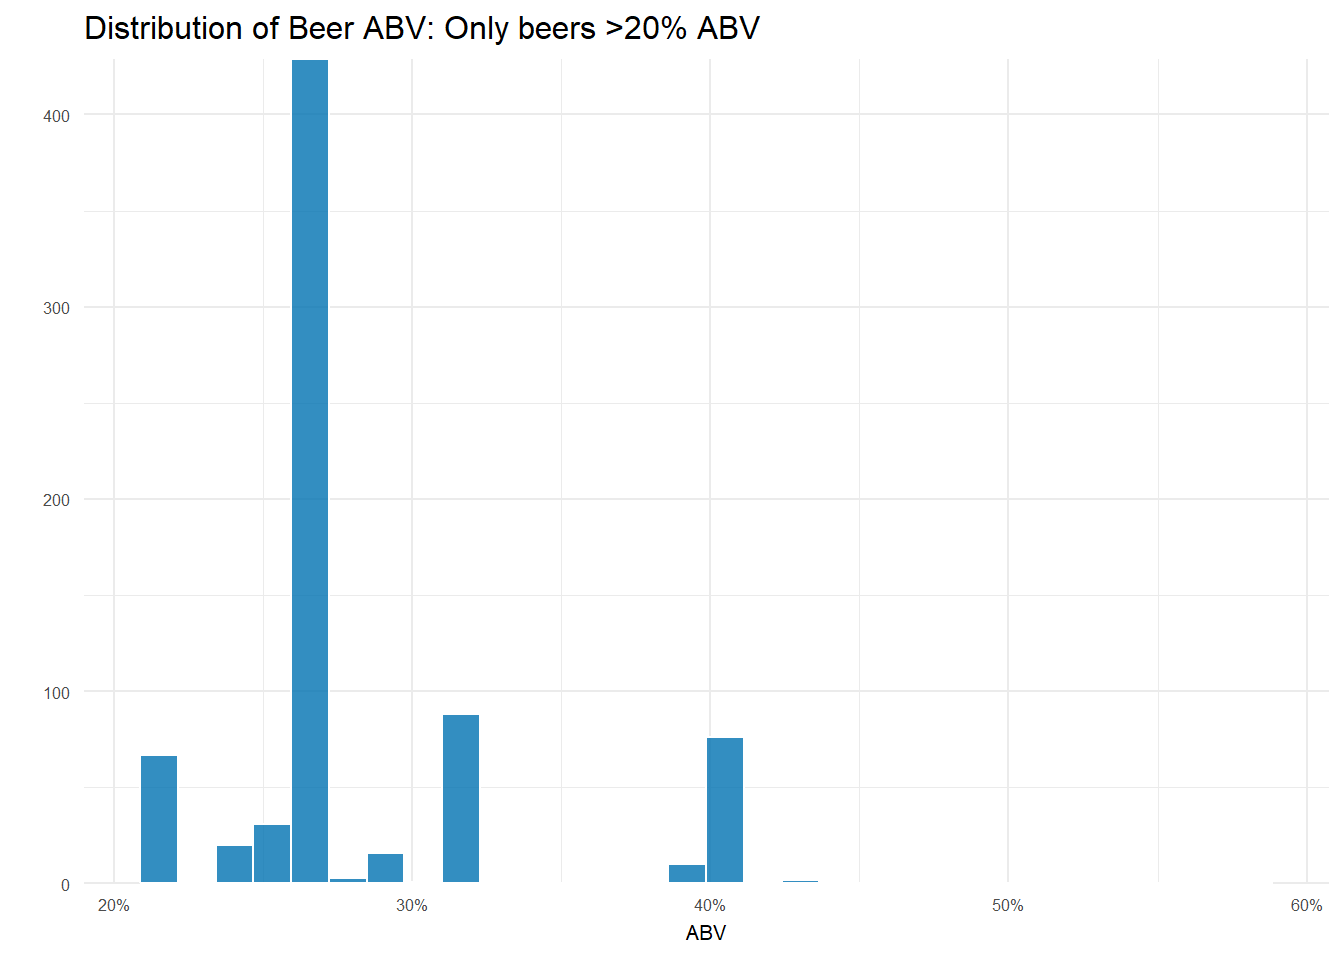
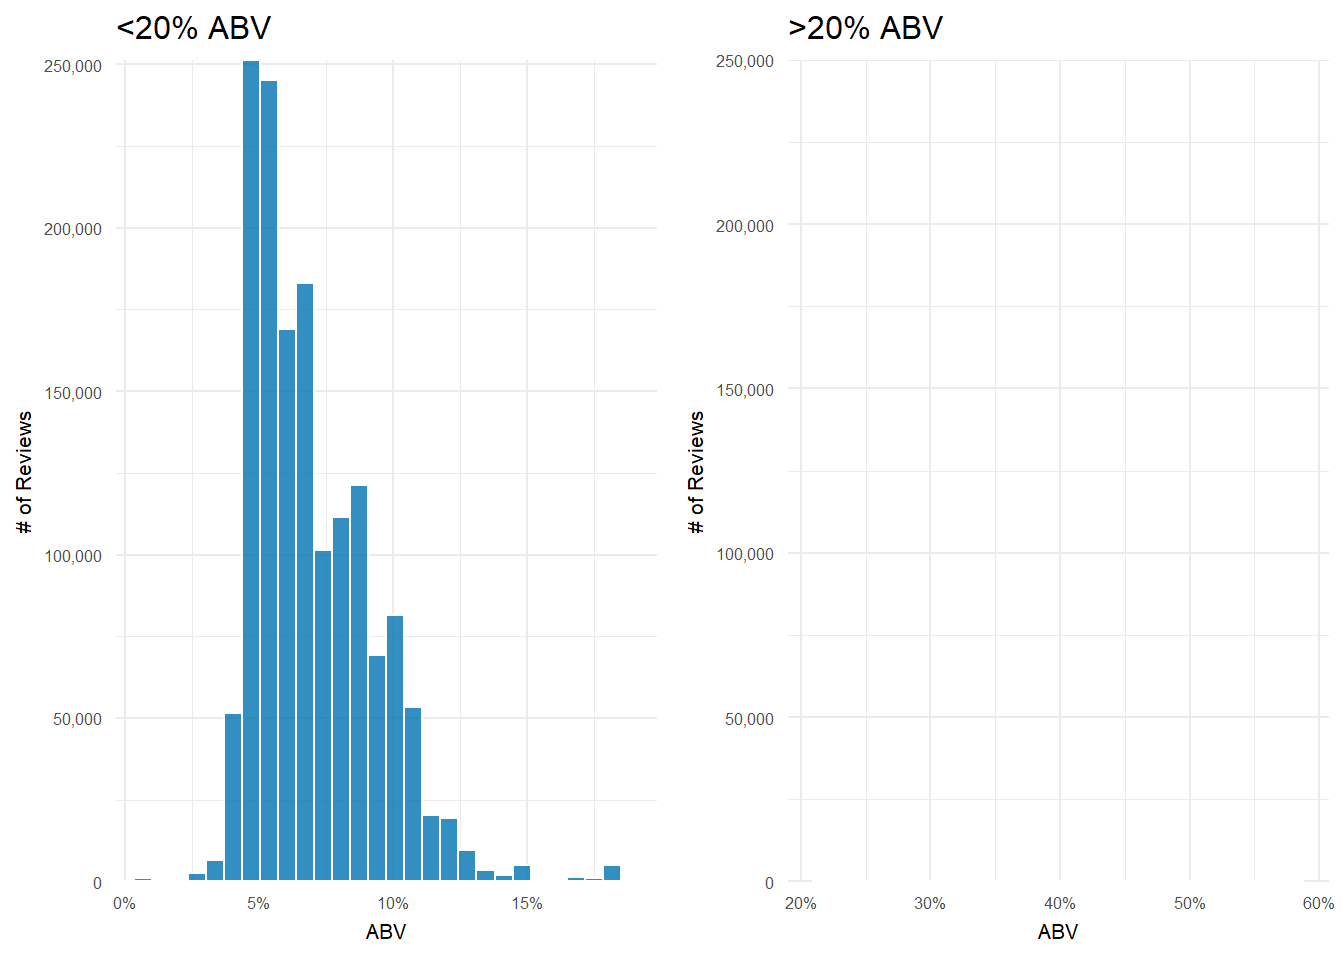
-Combined more plots for better readability

diff --git a/content/post/beer-advocate-reviews.html b/content/post/beer-advocate-reviews.html
@@ -646,14 +646,14 @@ top_bottom_conf_int_by_reviewid%&gt;%
        title = &quot;Top 15 &amp; Bottom 15 Styles: Beers not filtered&quot;,
        subtitle = &quot;Estimated Review Score of Beer Styles with 95% Confidence Intervals&quot;)+
   my_theme_tweaks()</code></pre>
-<p><img src="/post/beer-advocate-reviews_files/figure-html/non-filtered-styles-conf-ints-1.png" width="90%" height="90%" style="display: block; margin: auto;" /> The results are pretty similar to the other approach with some small differences. First, the confidence intervals are narrower for all styles. This is expected because of how I did the grouping. Instead of having, say, 100 beers to base the estimates off of, these styles may use thousands of reviews–remember all those one review beers we filtered out before? With all that additional data, the confidence intervals <em>should</em> get narrower. Second, we see a handful of new styles present in the top and bottom styles. Lambic - Unblended and Gose didn’t make the cut before, but are present now. These new additions to the to and bottom styles have the wider confidence intervals because they are basing the estimates of less data.</p>
+<p><img src="/post/beer-advocate-reviews_files/figure-html/non-filtered-styles-conf-ints-1.png" width="90%" height="90%" style="display: block; margin: auto;" /> The results are pretty similar to the other approach with some small differences. First, the confidence intervals are narrower for all styles. This is expected because of how I did the grouping. Instead of having, say, 100 beers to base the estimates off of, these styles may use thousands of reviews–remember all those one review beers we filtered out before? With all that additional data, the confidence intervals <em>should</em> get narrower. Second, we see a handful of new styles present in the top and bottom styles. Lambic - Unblended and Gose didn’t make the cut before, but are present now. These new additions to the top and bottom styles have the wider confidence intervals because they are basing the estimates of less data.</p>
 <p>Essentially though, the information present is the same. Reviewers love stouts, belgian ales, sours and IPAs and they tend to dislike lagers and light beers.</p>
 </div>
 </div>
 </div>
 <div id="which-brewery-produces-the-strongest-beers-by-abv" class="section level2">
 <h2>Which brewery produces the strongest beers by ABV%?</h2>
-With a better handle on the dataset, now I can actually address the question! First things first, there are 67,785 reviews with no ABV data so we need to remove that data. It’s only 4.27% of all reviews, so for the time being I’m not going to worry about just removing those reviews. Now the question is–what <em>is</em> a strong beer anyway? You can see from the histogram of the distribution of ABV’s that the vast majority of beers are under 10% ABV. Only 18 beers out of over 66,000! are over 20% ABV. <img src="/post/beer-advocate-reviews_files/figure-html/beer-abv-exploration-1.png" width="90%" height="90%" style="display: block; margin: auto;" />
+With a better handle on the dataset, now I can actually address the question! First things first, there are 67,785 reviews with no ABV data so I need to remove that data. It’s only 4.27% of all reviews, so for the time being I’m not going to worry about just removing those reviews. Now the question is–what <em>is</em> a strong beer anyway? You can see from the histogram of the distribution of ABV’s that the vast majority of beers are under 10% ABV. <img src="/post/beer-advocate-reviews_files/figure-html/beer-abv-exploration-1.png" width="90%" height="90%" style="display: block; margin: auto;" />
 <table class="table table-condensed">
 <thead>
 <tr>
@@ -742,196 +742,14 @@ De Struise Brouwers
 American Double / Imperial Stout
 </td>
 </tr>
-<tr>
-<td style="text-align:right;">
-Tactical Nuclear Penguin
-</td>
-<td style="text-align:right;">
-32.00
-</td>
-<td style="text-align:right;">
-BrewDog
-</td>
-<td style="text-align:right;">
-American Double / Imperial Stout
-</td>
-</tr>
-<tr>
-<td style="text-align:right;">
-Schorschbräu Schorschbock 31%
-</td>
-<td style="text-align:right;">
-30.86
-</td>
-<td style="text-align:right;">
-Schorschbräu
-</td>
-<td style="text-align:right;">
-Eisbock
-</td>
-</tr>
-<tr>
-<td style="text-align:right;">
-Dave
-</td>
-<td style="text-align:right;">
-29.00
-</td>
-<td style="text-align:right;">
-Hair of the Dog Brewing Company / Brewery and Tasting Room
-</td>
-<td style="text-align:right;">
-English Barleywine
-</td>
-</tr>
-<tr>
-<td style="text-align:right;">
-Ghost Deer
-</td>
-<td style="text-align:right;">
-28.00
-</td>
-<td style="text-align:right;">
-BrewDog
-</td>
-<td style="text-align:right;">
-Belgian Strong Pale Ale
-</td>
-</tr>
-<tr>
-<td style="text-align:right;">
-Samuel Adams Utopias
-</td>
-<td style="text-align:right;">
-27.00
-</td>
-<td style="text-align:right;">
-Boston Beer Company (Samuel Adams)
-</td>
-<td style="text-align:right;">
-American Strong Ale
-</td>
-</tr>
-<tr>
-<td style="text-align:right;">
-Black Damnation V - Double Black
-</td>
-<td style="text-align:right;">
-26.00
-</td>
-<td style="text-align:right;">
-De Struise Brouwers
-</td>
-<td style="text-align:right;">
-American Double / Imperial Stout
-</td>
-</tr>
-<tr>
-<td style="text-align:right;">
-Samuel Adams Utopias MMIII
-</td>
-<td style="text-align:right;">
-25.00
-</td>
-<td style="text-align:right;">
-Boston Beer Company (Samuel Adams)
-</td>
-<td style="text-align:right;">
-American Strong Ale
-</td>
-</tr>
-<tr>
-<td style="text-align:right;">
-Samuel Adams Utopias (Aged On Cocoa Nibs)
-</td>
-<td style="text-align:right;">
-25.00
-</td>
-<td style="text-align:right;">
-Boston Beer Company (Samuel Adams)
-</td>
-<td style="text-align:right;">
-American Strong Ale
-</td>
-</tr>
-<tr>
-<td style="text-align:right;">
-Samuel Adams Utopias MMII
-</td>
-<td style="text-align:right;">
-24.00
-</td>
-<td style="text-align:right;">
-Boston Beer Company (Samuel Adams)
-</td>
-<td style="text-align:right;">
-American Strong Ale
-</td>
-</tr>
-<tr>
-<td style="text-align:right;">
-Black Damnation XI - Special Kay
-</td>
-<td style="text-align:right;">
-22.00
-</td>
-<td style="text-align:right;">
-De Struise Brouwers
-</td>
-<td style="text-align:right;">
-Russian Imperial Stout
-</td>
-</tr>
-<tr>
-<td style="text-align:right;">
-44 Magnum
-</td>
-<td style="text-align:right;">
-22.00
-</td>
-<td style="text-align:right;">
-LagerHaus Grill &amp; Brewery
-</td>
-<td style="text-align:right;">
-American Strong Ale
-</td>
-</tr>
-<tr>
-<td style="text-align:right;">
-Colossus
-</td>
-<td style="text-align:right;">
-21.92
-</td>
-<td style="text-align:right;">
-DuClaw Brewing Company
-</td>
-<td style="text-align:right;">
-American Strong Ale
-</td>
-</tr>
-<tr>
-<td style="text-align:right;">
-Samuel Adams Millennium
-</td>
-<td style="text-align:right;">
-21.00
-</td>
-<td style="text-align:right;">
-Boston Beer Company (Samuel Adams)
-</td>
-<td style="text-align:right;">
-American Strong Ale
-</td>
-</tr>
 </tbody>
 </table>
+<p>Only 18 beers out of over 66,000! are over 20% ABV and as an early preview, you can see one brewery name standing out!.</p>
 <p>If I divide the data into reviews of beers &gt; 20% ABV and those &lt; 20% ABV, it’s easier to see how uncommon reviews for really high ABV beers are.</p>
-<p><img src="/post/beer-advocate-reviews_files/figure-html/greater-20-abv-distribution-1.png" width="90%" height="90%" style="display: block; margin: auto;" /></p>
-<p>The vast majority of beers reviewed fall right around the 5-6% range.</p>
-<p><img src="/post/beer-advocate-reviews_files/figure-html/less-20,%20abv%20distribution-1.png" width="90%" height="90%" style="display: block; margin: auto;" /></p>
+<p><img src="/post/beer-advocate-reviews_files/figure-html/abv-distributions-1.png" width="90%" height="90%" style="display: block; margin: auto;" /></p>
+<p>The vast majority of beers reviewed fall right around the 5-6% range. And that’s not an empty plot on the right–there’s simply so few reviews of beers &gt;20% ABV that you can’t see them when I force the plots to have the same y-axis scale.</p>
 <p>The question of which brewery produces the strongest beers by ABV has more nuance than it might appear. First, the question asks which brewery produces the strongest <strong>beers</strong> which I am taking to mean it needs to produce more than one beer. Second, how should I measure how strong a breweries beers are? An average of their ABVs? Maybe take the median? What about looking at the proportion of beers that a brewery produces that are above some ‘strong’ beer threshold? All these methods seem to have merit and are pretty simple and quick to perform. Let’s try them out and see what they tell us.</p>
-<p>After a bit of filtering, grouping and aggregation(which you can see in the code fold below), you can see that Schorschbräu ranks at the top of both the mean and median rankings. In fact, the top 4 on both graphs are the same–albeit with one positional swap. One note: Why did I only include breweries that make 4 or more beers? Because the median number of beers produced is 4 and that seemed reasonable.</p>
+<p>After a bit of filtering, grouping and aggregation(which you can see in the code below), you can see that Schorschbräu ranks at the top of both the mean and median rankings. In fact, the top 4 on both graphs are the same–albeit with one positional swap. One note: Why did I only include breweries that make 4 or more beers? Because the median number of beers produced is 4 and that seemed reasonable.</p>
 <pre class="r"><code>average_abv &lt;- reviews_raw %&gt;%
   # remove reviews with missing abv
   filter(!is.na(beer_abv), !is.na(brewery_name))%&gt;%
@@ -965,7 +783,7 @@ average_abv &lt;- average_abv %&gt;%
            into = c(&quot;brewery_name&quot;, NA))
 
 # create strongest mean beer plot
-average_abv %&gt;%
+p3 &lt;- average_abv %&gt;%
   mutate(brewery_name = fct_reorder(brewery_name, avg_abv))%&gt;%
   # Median number of beers produced is 4 so only keeping those at or above that threshold
   filter(num_beers &gt;= 4)%&gt;%
@@ -975,12 +793,12 @@ average_abv %&gt;%
   scale_x_continuous(labels = scales::number_format(suffix = &quot;%&quot;))+
   labs(x = &quot;ABV&quot;,
        y = &quot;&quot;, 
-       title = &quot;Breweries Producing the &#39;Strongest&#39; Beers: By Mean&quot;,
-       subtitle = &quot;Only Breweries producing 4 or more different beers&quot;)+
-  my_theme_tweaks()</code></pre>
-<p><img src="/post/beer-advocate-reviews_files/figure-html/strongest-beers-by-mean-median-1.png" width="90%" height="90%" style="display: block; margin: auto;" /></p>
-<pre class="r"><code># create strongest median beer plot
-average_abv %&gt;%
+       title = &quot;By Mean&quot;,
+       subtitle = &quot;&quot;)+
+  my_theme_tweaks()
+
+# create strongest median beer plot
+p4 &lt;- average_abv %&gt;%
   distinct(brewery_name, .keep_all = TRUE)%&gt;%
   mutate(brewery_name = fct_reorder(brewery_name, med_abv))%&gt;%
   filter(num_beers &gt;= 4)%&gt;%
@@ -990,10 +808,12 @@ average_abv %&gt;%
   scale_x_continuous(labels = scales::number_format(suffix = &quot;%&quot;))+
   labs(x = &quot;ABV&quot;,
        y = &quot;&quot;, 
-       title = &quot;Breweries Producing the &#39;Strongest&#39; Beers: By Median&quot;,
-       subtitle = &quot;Only Breweries producing 4 or more different beers&quot;)+
-  my_theme_tweaks()</code></pre>
-<p><img src="/post/beer-advocate-reviews_files/figure-html/strongest-beers-by-mean-median-2.png" width="90%" height="90%" style="display: block; margin: auto;" /></p>
+       title = &quot;By Median&quot;,
+       subtitle = &quot;&quot;)+
+  my_theme_tweaks()
+
+ggarrange(p3, p4)</code></pre>
+<p><img src="/post/beer-advocate-reviews_files/figure-html/strongest-beers-by-mean-median-1.png" width="90%" height="90%" style="display: block; margin: auto;" /></p>
 <p>Now what if the brewery that produces the strongest beers is the one that has the highest proportion of its beers above some ABV threshold. We know the mean ABV for a beer is 6.27% (median 5.7%). In fact, the 75th percentile for beer ABV is only 7.2%. 10% is where I, personally, start to think a beer is strong and with only 6.51% of beers having greater than or equal to 10% ABV, I think it’s a pretty reasonable mark of a ‘strong’ beer.</p>
 <p><img src="/post/beer-advocate-reviews_files/figure-html/strongest-beer-by-proportion-above-10-1.png" width="90%" height="90%" style="display: block; margin: auto;" /></p>
 <p>Yet again, Schorschbräu sits at the top. They only make 10 different beers, but 90% of them are 10% ABV or higher! For a brewery that produces quite a few more beers, but still cranks out high ABV stuff, AleSmith Brewing Company is up there. They make over 50 different beers and over 70% of them are above 10% ABV.</p>
@@ -1162,8 +982,9 @@ pred$rating &lt;- r$predict(prediction_set, out_memory())
 saveRDS(pred, &quot;beer_reco_predictions.RDS&quot;)</code></pre>
 <p>The model runs through 20 iterations and the RMSE is still dropping. You can really easily overfit this model. If you do 300 or even 400 latent factors the RMSE will continue to drop. In a full scale implementation, I would be using a training and testing set and/or cross validation to choose the number of latent factors that minimizes the RMSE on the test set. Here, I’m simply doing a proof of concept, so we are playing it a bit fast and loose.</p>
 <p>With the model trained and predictions precomputed for all users, I can select some users and examine the results. I built a couple helper functions to view the results. The first takes the prediction data frame and filters out the beers that user already reviewed then returns the top 3 beers predicted for them. The second function grabs the top 10 beers that that user already reviewed so we can compare and see if the results are sensible.</p>
-<pre class="r"><code>#Look into using &#39;here&#39; package for easier paths here
-predictions &lt;- readRDS(&quot;~/Playground/Playground/beer_reco_predictions.RDS&quot;)
+<pre class="r"><code>#using &#39;here&#39; for easier paths
+predictions &lt;- here::here(&quot;content&quot;, &quot;post&quot;, &quot;beer_reco_predictions.RDS&quot;)%&gt;%
+  readRDS()
 
 top_three_beers_for_user &lt;- function(preds = predictions, user_beer_sparse = user_beer_triplet, user_id = NULL){
 # inputs: 
@@ -1724,7 +1545,7 @@ American Double / Imperial IPA
 </div>
 <div id="which-of-the-factorsaroma-taste-appearance-palette-are-most-important-in-determining-the-overall-quality-of-the-beer" class="section level2">
 <h2>Which of the factors(aroma, taste, appearance, palette) are most important in determining the overall quality of the beer?</h2>
-<p>This is another fun question because–yet again–there are a lot of different ways you could reason about finding an answer. Initially, I wanted to use PCA. I figured I could use it to see which factor most closely corresponded to the first principle component–which is where, by definition, most of the variance occurs. But after thinking it over some more, I decided not to use this approach. Typically PCA is used when you have a lot of variables that are in play. Here, I’m only really looking at 4. While I think you could cast the problem in a way to ‘use’ PCA, I don’t know that it’s the good approach, so I’m using other techniques here. I’d love to see how someone would approach this problem using PCA though, so if you get a hankering to do that, please shoot me a link to your analysis in the comments!</p>
+<p>This is another fun question because–yet again–there are a lot of different ways you could reason about finding an answer. Initially, I wanted to use PCA. I figured I could use it to see which factor most closely corresponded to the first principle component–which is where, by definition, most of the variance occurs. But after thinking it over some more, I decided not to use this approach. Typically PCA is used when you have a lot of variables that are in play. Here, I’m only really looking at 4. While I think you <em>could</em> cast the problem in a way to use PCA, I don’t know that it’s the good approach, so I’m using other techniques here. I’d love to see how someone would approach this problem using PCA though, so if you get a hankering to do that, please shoot me a link to your analysis in the comments!</p>
 <p>Instead of PCA, I’m going to do two things:</p>
 <ol style="list-style-type: decimal">
 <li>Examine the correlations between the subfactors(taste, palette, aroma, appearance) and the overall review scores</li>
@@ -1902,7 +1723,7 @@ summary(m1)</code></pre>
 ## Residual standard error: 0.4213 on 1586602 degrees of freedom
 ## Multiple R-squared:  0.6581, Adjusted R-squared:  0.6581 
 ## F-statistic: 7.636e+05 on 4 and 1586602 DF,  p-value: &lt; 2.2e-16</code></pre>
-<p>This linear model is predicting review_overall from the sub-reviews–taste, aroma, appearance and palate. With an R-squared of just .658, this model isn’t super accurate, but it’s good enough for our purposes.<a href="#fn3" class="footnoteRef" id="fnref3"><sup>3</sup></a> I just want to see which factor is most important to the overall review score after all. It’s tempting to just look at the coefficient values and say whichever is larger is more important, but that’s <a href="https://stats.stackexchange.com/a/202846">not really true</a>. Variables on different scales, variables with wildly different variances or multi-collinearity between variables will all make determining feature importance from the coefficient values problematic(if not outright wrong).</p>
+<p>This linear model is predicting review_overall from the sub-reviews–taste, aroma, appearance and palate. With an R-squared of just .658, this model isn’t super accurate, but it’s good enough for our purposes.<a href="#fn3" class="footnoteRef" id="fnref3"><sup>3</sup></a> I just want to see which factor is most important to the overall review score after all. It’s tempting to look at the coefficient values and say whichever is larger is more important, but that’s <a href="https://stats.stackexchange.com/a/202846">not really true</a>. Variables on different scales, variables with wildly different variances or multi-collinearity between variables will all make determining feature importance from the coefficient values problematic(if not outright wrong).</p>
 <p>Luckily, some very smart statisticians built a package called <a href="https://cran.r-project.org/web/packages/relaimpo/relaimpo.pdf"><strong>relaimpo</strong></a> that will calculate more useful feature importance metrics. It turns out this is a really slippery and complicated area of statistics, so I’d encourage you to read about it <a href="https://prof.beuth-hochschule.de/fileadmin/prof/groemp/downloads/amstat07mayp139.pdf">here</a> if you’d like to see how a statistician thinks about this area. There are 8 different metrics you can use in <em>relaimpo</em>, but they all basically give the same answer. I’ve included 5 below(<em>lmg</em> and <em>betasq</em> seem to be the most commonly used metrics) and you can see that each metric under ‘Relative importance metrics’ gives the same breakdown of feature importance:</p>
 <ol style="list-style-type: decimal">
 <li>Taste</li>
@@ -2011,7 +1832,7 @@ aroma_and_appearance %&gt;%
 <div id="wrapup" class="section level3">
 <h3>Wrapup</h3>
 <p>This was a really fun dataset to play around with, and I have to say I completely agree with Tanya Cashorali when she says this sort of take home test is a great way to interview data science job candidates. There’s a lot of flexibility in how you perform the analysis and I think you get a good idea of what someone is capable of and how they reason about solving actual problems.</p>
-<p>As usual, the full code for this report can be found <a href="https://github.com/Grollus/DataBlog/tree/master/content/post">here</a> and thanks for reading!</p>
+<p>As usual, the full code for this post can be found <a href="https://github.com/Grollus/DataBlog/blob/master/content/post/beer-advocate-reviews.Rmd">here</a> and thanks for reading!</p>
 </div>
 <div id="code-appendix" class="section level3">
 <h3>Code Appendix</h3>
